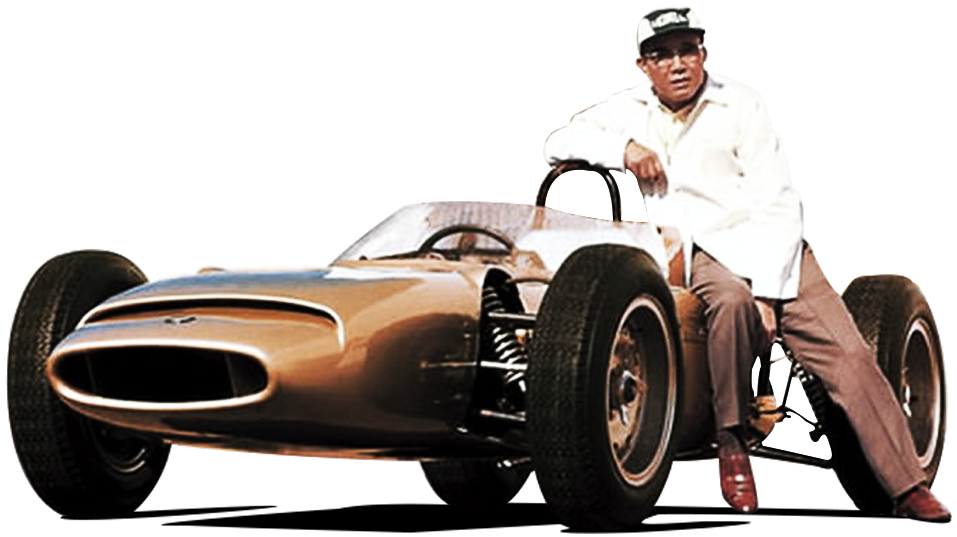
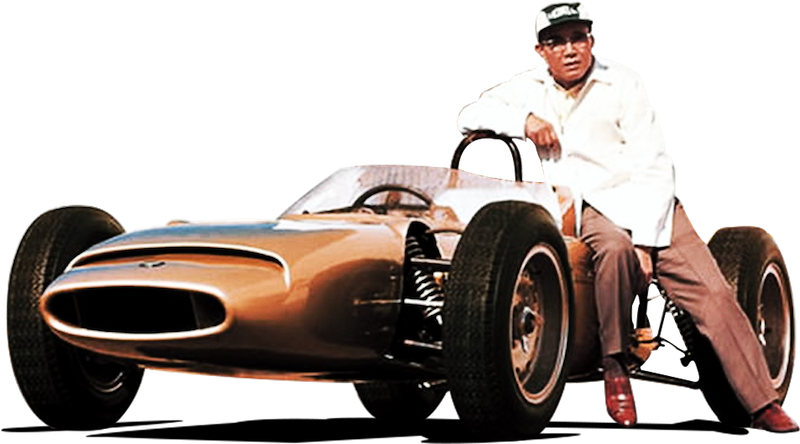
<!-- aj Version 1.2.45 modified slideshow for desktop: smaller cars, 1 more slide, modified some text and specs-->

diff --git a/index.html b/index.html
@@ -1,4 +1,4 @@
-<!-- aj Version 1.2.44 compressed images for background, popup, phone. Absolute URLs. x-button for popup -->
+<!-- aj Version 1.2.45 modified slideshow for desktop: smaller cars, 1 more slide, modified some text and specs-->
 <!DOCTYPE html>
 <html lang="en">
 <head>
@@ -187,8 +187,8 @@
 
             <img class="ms-layer car1"
                  alt="car"
-                 data-offset-x="20"
-                 data-offset-y="20"
+                 data-offset-x="250"
+                 data-offset-y="60"
                  data-origin="br"
                  data-type="image"
                  data-effect="right(long)"
@@ -203,6 +203,117 @@
         </div>
 
 
+        <!-- end of slide -->
+        <!-- BTTC new slide (slide added afterwards)(to rename all slides------------------------------------------------------------->
+        <div class="ms-slide">
+
+            <!-- slide background -->
+            <img src="/masterslider/style/blank.gif"
+                 data-src="/masterslider/images/bg-racetrack.jpg"
+                 alt="bg-racetrack"/>
+
+            <div class="ms-layer revanimation2"
+                 style="bottom: 280%; width: 540%;"
+                 data-offset-x="0"
+                 data-offset-y="300"
+                 data-origin="bc"
+                 data-duration="0"></div>
+
+            <!-- rev counter -->
+            <div class="ms-layer revborder ms-caption"
+                 data-offset-x="0"
+                 data-offset-y="300"
+                 data-origin="bc"
+                 data-type="text"
+                 data-effect="fade"
+                 data-duration="0"
+                 data-ease="easeOutQuart">
+
+
+                <!--<div class="revanimation"-->
+                <!--data-duration="0"></div>-->
+                <!-- revtext -->
+
+
+                <div class="ms-layer ms-caption heading"
+                     data-offset-x="0"
+                     data-offset-y="460"
+                     data-origin="bc"
+                     data-type="text"
+                     data-effect="fade"
+                     data-duration="3800"
+                     data-ease="easeOutQuart">
+                    BTCC
+                </div>
+
+
+                <div class="ms-layer ms-caption subheading"
+                     data-offset-x="5"
+                     data-offset-y="450"
+                     data-origin="bc"
+                     data-type="text"
+                     data-effect="fade"
+                     data-duration="3800"
+                     data-ease="easeOutQuart">
+                    British Touring<br/>Car Championship
+                </div>
+
+            </div>
+
+
+            <!-- slide text layer -->
+            <div class="mytext ms-layer ms-caption text2"
+                 data-offset-x="126"
+                 data-offset-y="80"
+                 data-origin="tl"
+                 data-type="text"
+                 data-effect="left(long)"
+                 data-duration="2000"
+                 data-ease="easeOutQuart">
+
+
+                Since the 2014 season, all cars have been built to the same NGTC regulations. First intriduced in 2011 for an initil five-year period, these technical regulations are designed to dramatically reduce the design, build and running costs of the cars and engines. Only NGTC cars are now eligible to compete in the BTCC. TOCA extended these regulations for a further six year from 2016.
+                <br/>
+                <br/>
+                NGTC allows independent teams to compete on a level playing field against manufacturer-backed efforts by keeping costs down whilst at the same time rewarding precise engineering and all-important split-second strategies.
+
+            </div>
+
+            <!--spec block-->
+            <div class="ms-layer specs spec2 ms-caption"
+                 data-offset-x="150"
+                 data-offset-y="480"
+                 data-origin="tl"
+                 data-type="text"
+                 data-effect="bottom(200|800)"
+                 data-duration="1800"
+                 data-ease="easeOutQuart">
+
+                Engine: &nbsp; &nbsp; &nbsp; &nbsp; &nbsp; &nbsp; &nbsp;&nbsp; &nbsp; &nbsp; &nbsp; &nbsp; &nbsp; &nbsp;
+                &nbsp; &nbsp;3.0L Six-cylinder DOHC VTEC <br/>
+                Maximum Output: &nbsp; &nbsp; &nbsp; &nbsp; &nbsp; &nbsp; &nbsp; 280PS / 7,300rpm <br/>
+                Maximum Torque: &nbsp; &nbsp; &nbsp; &nbsp; &nbsp; &nbsp; &nbsp; 30.0kg · m / 5,400 rpm
+
+            </div>
+
+
+            <!--car image layer-->
+            <img class="ms-layer car2 allcars"
+                 alt="car"
+                 data-offset-x="150"
+                 data-offset-y="40"
+                 data-origin="br"
+                 data-type="image"
+                 data-effect="right(long)"
+                 data-duration="1200"
+                 data-ease="linear"
+                 data-delay="800"
+                 data-hide-effect="fade"
+                 src="/masterslider/blank.gif"
+                 data-src="/masterslider/images/car-BTCC.png"/>
+
+
+        </div>
         <!-- end of slide -->
         <!-- 2 new slide ------------------------------------------------------------->
         <div class="ms-slide">
@@ -243,7 +354,7 @@
                      data-effect="fade"
                      data-duration="3800"
                      data-ease="easeOutQuart">
-                    WWTC
+                    WTCC
                 </div>
 
 
@@ -307,7 +418,7 @@
             <!--car image layer-->
             <img class="ms-layer car2 allcars"
                  alt="car"
-                 data-offset-x="-100"
+                 data-offset-x="120"
                  data-offset-y="0"
                  data-origin="br"
                  data-type="image"
@@ -374,7 +485,7 @@
                      data-effect="fade"
                      data-duration="3800"
                      data-ease="easeOutQuart">
-                    1992 First Generation NSX Type R <br/> (Available in Japan only)
+                    1992 First Generation NSX Type R
                 </div>
 
             </div>
@@ -423,9 +534,9 @@
                rel="modal:open">
                 <img class="ms-layer car3"
                      alt="car"
-                     data-offset-x="1000"
-                     data-offset-y="-50"
-                     data-origin="bl"
+                     data-offset-x="100"
+                     data-offset-y="0"
+                     data-origin="br"
                      data-type="image"
                      data-effect="right(long)"
                      data-duration="1200"
@@ -491,7 +602,7 @@
                      data-effect="fade"
                      data-duration="3800"
                      data-ease="easeOutQuart">
-                    1995 First Generation Integra Type R <br/> (Available in Japan only)
+                    1995 First Generation Integra Type R
                 </div>
 
             </div>
@@ -541,8 +652,8 @@
             <!--car image layer-->
             <img class="ms-layer car4"
                  alt="car"
-                 data-offset-x="-230"
-                 data-offset-y="10"
+                 data-offset-x="100"
+                 data-offset-y="30"
                  data-origin="br"
                  data-type="image"
                  data-effect="right(long)"
@@ -605,7 +716,7 @@
                      data-effect="fade"
                      data-duration="3800"
                      data-ease="easeOutQuart">
-                    1997 First Generation Civic Type R <br/> (Available in Japan only)
+                    1997 First Generation Civic Type R
                 </div>
 
             </div>
@@ -653,8 +764,8 @@
             <!--car image layer-->
             <img class="ms-layer car5"
                  alt="car"
-                 data-offset-x="-300"
-                 data-offset-y="5"
+                 data-offset-x="150"
+                 data-offset-y="40"
                  data-origin="br"
                  data-type="image"
                  data-effect="right(long)"
@@ -715,7 +826,7 @@
                      data-effect="fade"
                      data-duration="3800"
                      data-ease="easeOutQuart">
-                    <span>1998 Integra Type R <br/> (Available in Europe and U.S.) This was the first <br/> Type R model introduced in Europe</span>
+                    <span>1998 Integra Type R</span>
                 </div>
 
             </div>
@@ -732,7 +843,7 @@
                  data-ease="easeOutQuart">
                 Engine: &nbsp; &nbsp; &nbsp; &nbsp; &nbsp;&nbsp; &nbsp; &nbsp; &nbsp; &nbsp; &nbsp; &nbsp; &nbsp; &nbsp;1.8L
                 Four-cylinder DOHC VTEC <br/>
-                Maximum Output: &nbsp; &nbsp; &nbsp; &nbsp; &nbsp; 2190PS / 8,000 rpm <br/>
+                Maximum Output: &nbsp; &nbsp; &nbsp; &nbsp; &nbsp; 190PS / 8,000 rpm <br/>
                 Maximum Torque: &nbsp; &nbsp; &nbsp; &nbsp; &nbsp; 178 N · m / 7,300 rpm
 
             </div>
@@ -759,8 +870,8 @@
             <!--car image layer-->
             <img class="ms-layer car6"
                  alt="car"
-                 data-offset-x="-200"
-                 data-offset-y="30"
+                 data-offset-x="180"
+                 data-offset-y="50"
                  data-origin="br"
                  data-type="image"
                  data-effect="right(long)"
@@ -829,7 +940,7 @@
                      data-effect="fade"
                      data-duration="3800"
                      data-ease="easeOutQuart">
-                    1999 Accord Type R <br/> (Available in Europe only)
+                    1999 Accord Type R
                 </div>
 
             </div>
@@ -880,7 +991,7 @@
             <!--car image layer-->
             <img class="ms-layer car7"
                  alt="car"
-                 data-offset-x="-200"
+                 data-offset-x="150"
                  data-offset-y="0"
                  data-origin="br"
                  data-type="image"
@@ -950,7 +1061,7 @@
                      data-effect="fade"
                      data-duration="3800"
                      data-ease="easeOutQuart">
-                    2001 Second Generation Integra Type R <br/> (Available in Japan)
+                    2001 Second Generation Integra Type R
                 </div>
 
             </div>
@@ -994,8 +1105,8 @@
             <!--car image layer-->
             <img class="ms-layer car8"
                  alt="car"
-                 data-offset-x="-300"
-                 data-offset-y="5"
+                 data-offset-x="150"
+                 data-offset-y="30"
                  data-origin="br"
                  data-type="image"
                  data-effect="right(long)"
@@ -1076,8 +1187,8 @@
 
                 Engine: &nbsp; &nbsp; &nbsp; &nbsp; &nbsp;&nbsp; &nbsp; &nbsp; &nbsp; &nbsp; &nbsp; &nbsp; &nbsp; &nbsp;2.0L
                 Four-cylinder DOHC i-VTEC <br/>
-                Maximum Output: &nbsp; &nbsp; &nbsp; &nbsp; &nbsp; 200PS / 7,400 rpm <br/>
-                Maximum Torque: &nbsp; &nbsp; &nbsp; &nbsp; &nbsp; 196N · m / 5,900 rpm
+                Maximum Output: &nbsp; &nbsp; &nbsp; &nbsp; &nbsp; 162kW [220PS] / 8,000 rpm <br/>
+                Maximum Torque: &nbsp; &nbsp; &nbsp; &nbsp; &nbsp; 206N · m [21.0kg · m] / 7,000 rpm
 
             </div>
 
@@ -1106,8 +1217,8 @@
             <!--car image layer-->
             <img class="ms-layer car9"
                  alt="car"
-                 data-offset-x="-255"
-                 data-offset-y="0"
+                 data-offset-x="120"
+                 data-offset-y="30"
                  data-origin="br"
                  data-type="image"
                  data-effect="right(long)"
@@ -1173,7 +1284,7 @@
                      data-effect="fade"
                      data-duration="3800"
                      data-ease="easeOutQuart">
-                    2002 Second Generation NSX Type R <br> (Available in Japan Only)
+                    2002 Second Generation NSX Type R
                 </div>
 
             </div>
@@ -1222,8 +1333,8 @@
             <!--car image layer-->
             <img class="ms-layer car10"
                  alt="car"
-                 data-offset-x="-450"
-                 data-offset-y="-100"
+                 data-offset-x="120"
+                 data-offset-y="-20"
                  data-origin="br"
                  data-type="image"
                  data-effect="right(long)"
@@ -1350,8 +1461,8 @@
             <!--car image layer-->
             <img class="ms-layer car11"
                  alt="car"
-                 data-offset-x="-360"
-                 data-offset-y="-30"
+                 data-offset-x="130"
+                 data-offset-y="-10"
                  data-origin="br"
                  data-type="image"
                  data-effect="right(long)"
@@ -1495,8 +1606,8 @@
             <!--car image layer-->
             <img class="ms-layer car12"
                  alt="car"
-                 data-offset-x="-200"
-                 data-offset-y="-50"
+                 data-offset-x="110"
+                 data-offset-y="-10"
                  data-origin="br"
                  data-type="image"
                  data-effect="right(long)"
@@ -1543,10 +1654,9 @@
                  data-duration="800"
                  data-ease="easeOutQuart">
 
-                Engine: &nbsp; &nbsp; &nbsp;&nbsp; &nbsp; &nbsp; &nbsp; &nbsp; &nbsp; &nbsp; &nbsp; &nbsp;2.0L
-                Four-cylinder DOHC i-VTEC <br/>
-                Maximum Output: &nbsp; &nbsp; &nbsp; 148kW [201PS] / 7,800 rpm <br/>
-                Maximum Torque: &nbsp; &nbsp; &nbsp; 193N · m /5,600 rpm
+                Engine: &nbsp; &nbsp; &nbsp;&nbsp; &nbsp; &nbsp; &nbsp; &nbsp; &nbsp; &nbsp; &nbsp; &nbsp;2.0 VTEC TURBO <br/>
+                Maximum Output: &nbsp; &nbsp; &nbsp; 228 kW / 6500 rpm <br/>
+                Maximum Torque: &nbsp; &nbsp; &nbsp; 400 nM / 2500-4500 rpm
 
             </div>
 
